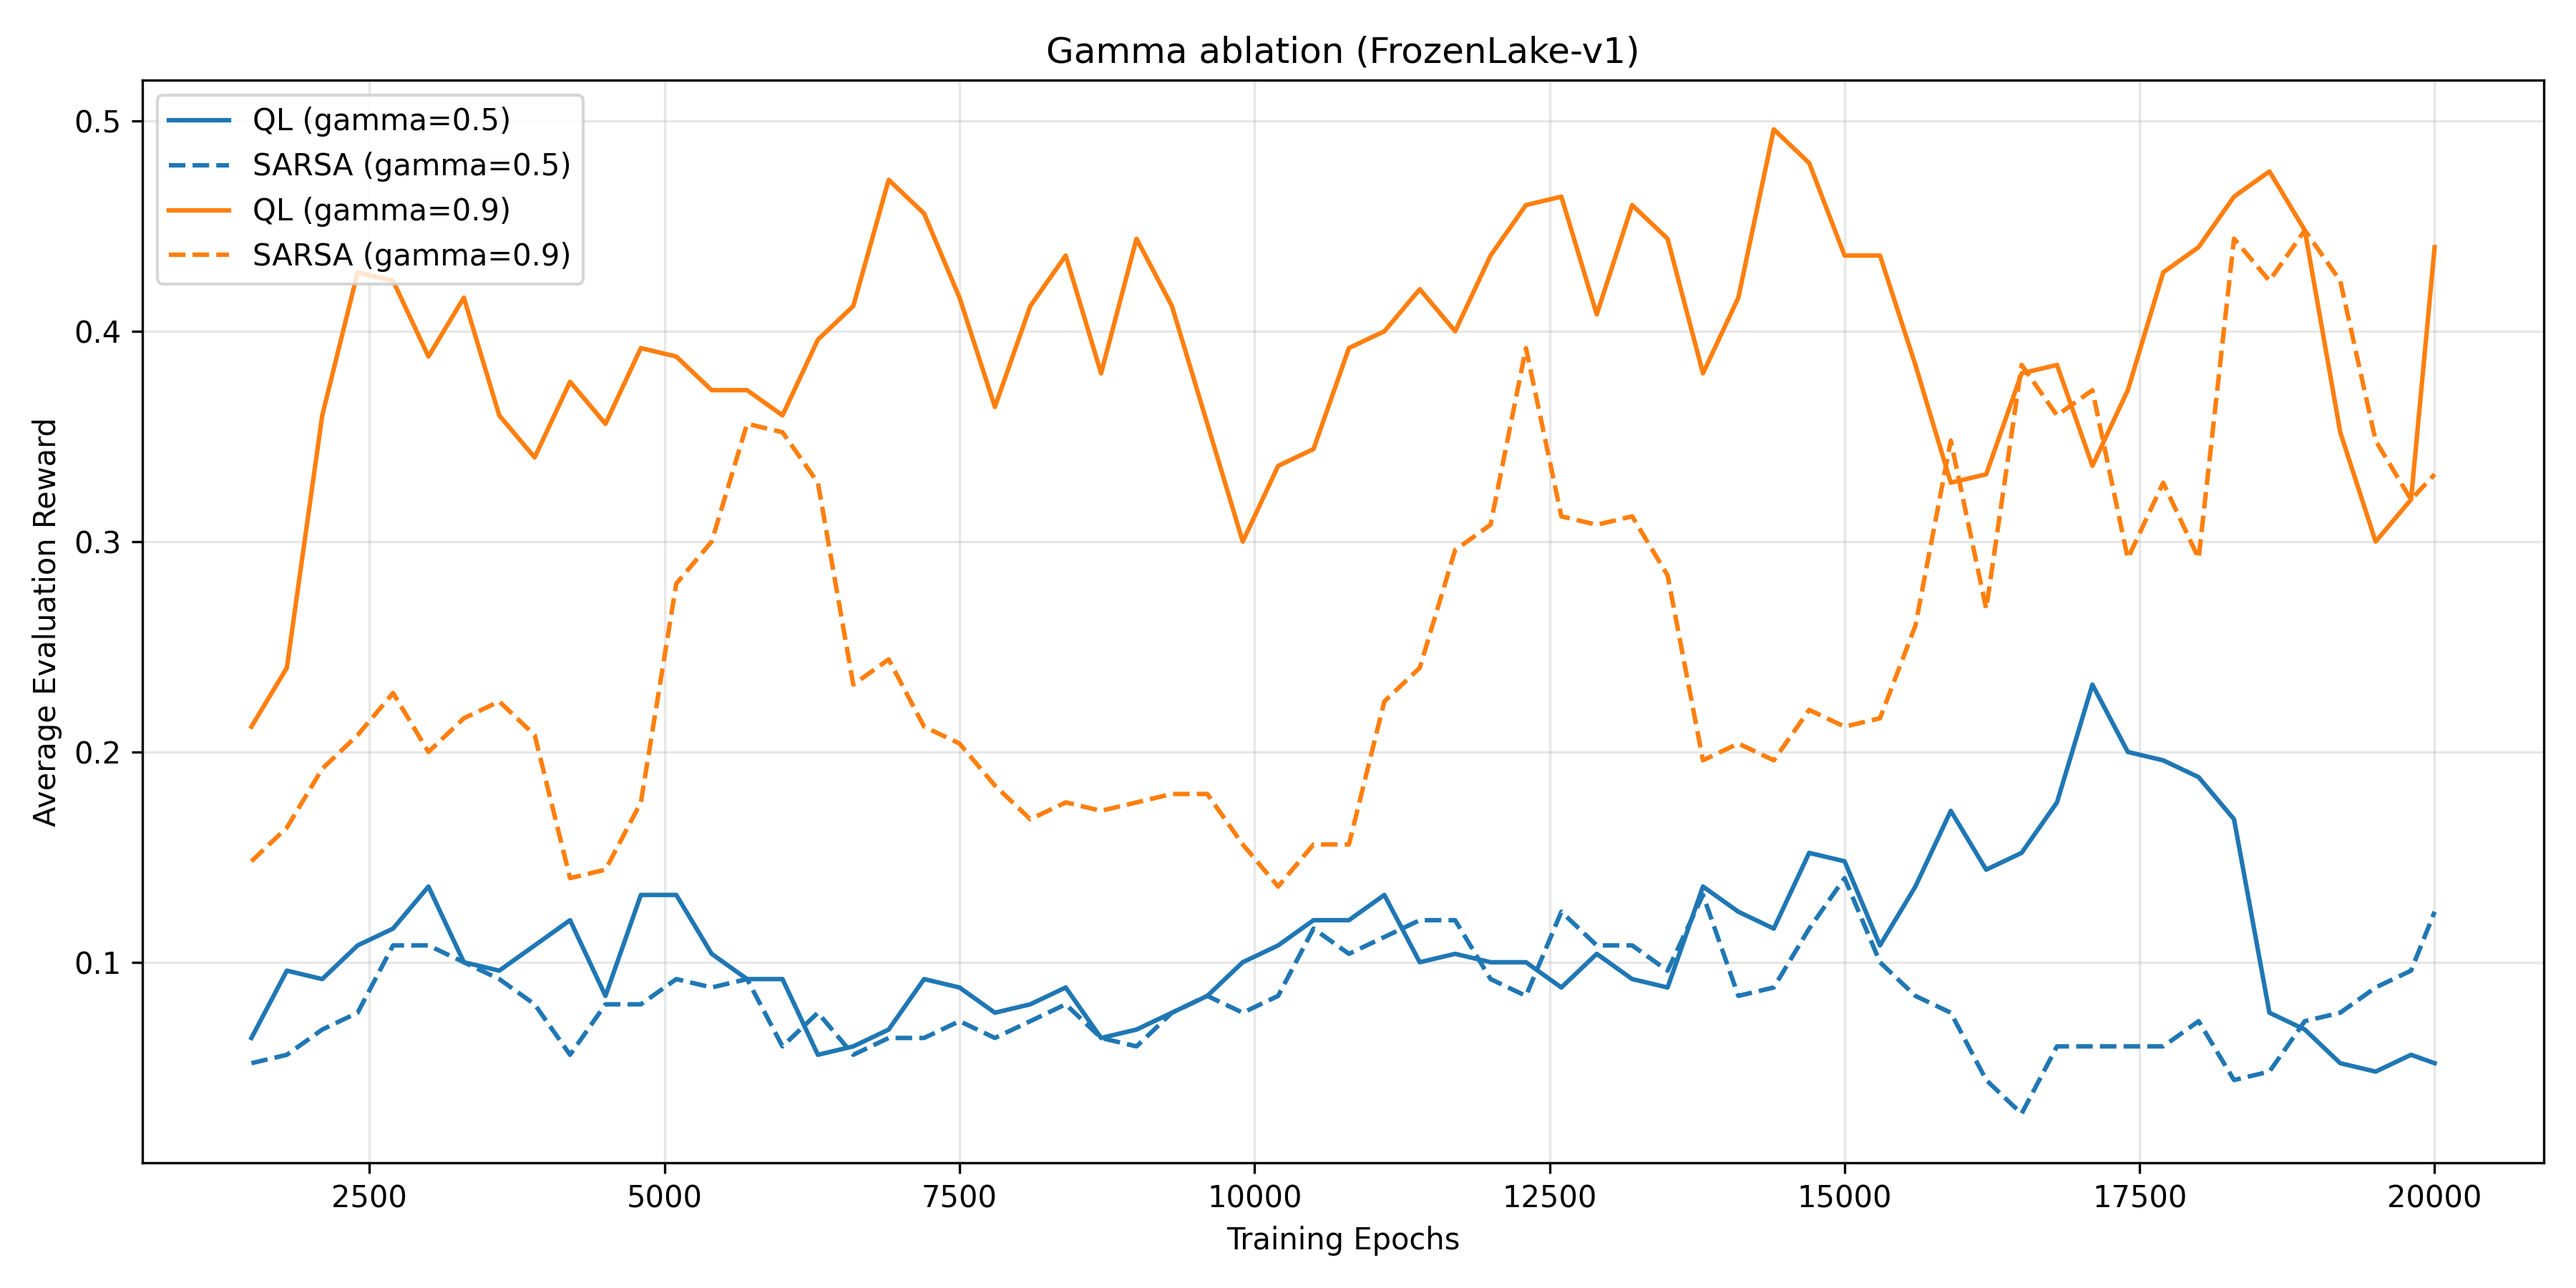
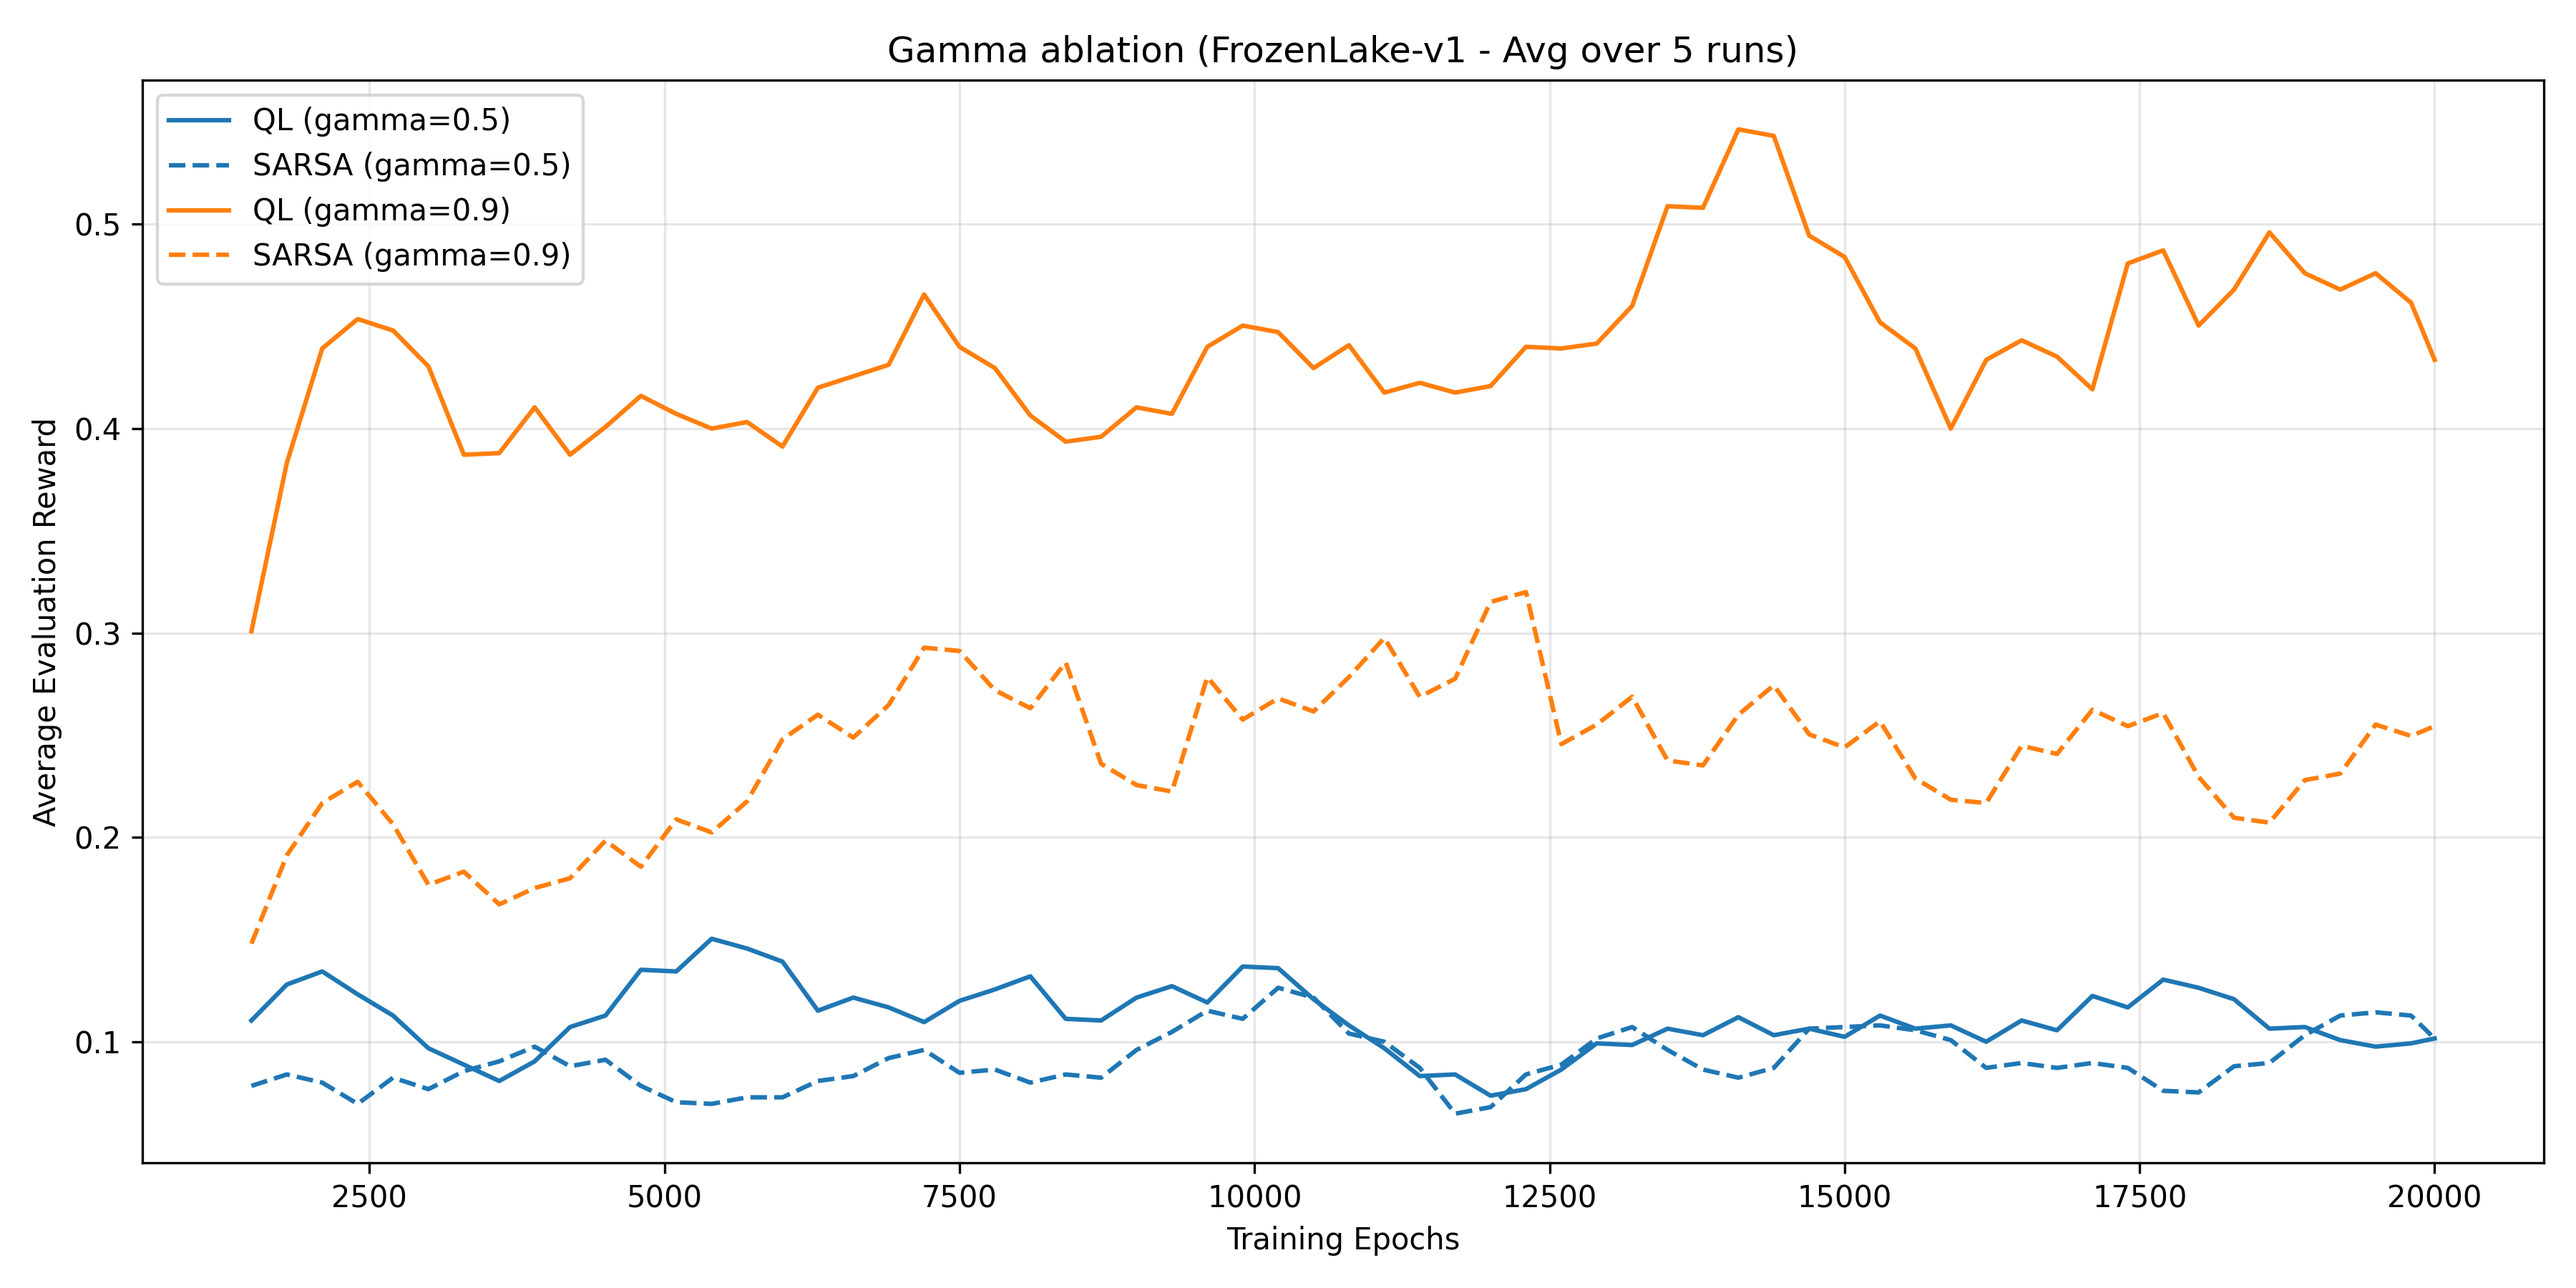
feat: added averaging

diff --git a/lab05-q-learning/main.py b/lab05-q-learning/main.py
@@ -7,10 +7,25 @@ from sarsa import train_sarsa
 def smooth_data(data, window_size=5):
     if len(data) < window_size:
         return data
-    
     return np.convolve(data, np.ones(window_size)/window_size, mode='valid')
 
-def plot_combined_parameter_variations(env_name, total_epochs=5000, eval_freq=100, eval_epochs=50, smoothing_window=5):
+def run_multiple_seeds(train_func, env_name, alpha, gamma, epsilon, epochs, eval_freq, eval_epochs, num_runs=5):
+    all_rewards = []
+    epochs_arr = None
+    
+    for run in range(num_runs):
+        _, _, eval_metrics = train_func(env_name, alpha, gamma, epsilon, epochs, eval_freq, eval_epochs)
+        all_rewards.append(eval_metrics['avg_rewards'])
+        
+        if epochs_arr is None:
+            epochs_arr = eval_metrics['epochs']
+            
+    all_rewards = np.array(all_rewards)
+    mean_rewards = np.mean(all_rewards, axis=0)
+    
+    return np.array(epochs_arr), mean_rewards
+
+def plot_combined_parameter_variations(env_name, total_epochs=5000, eval_freq=100, eval_epochs=50, smoothing_window=5, num_runs=5):
     base_alpha, base_gamma, base_epsilon = 0.1, 0.9, 0.5
     param_grid = {'gamma': [0.5, 0.9], 'epsilon': [0.1, 0.5, 0.8], 'alpha': [0.1, 0.5, 0.9]}
     colors = plt.rcParams['axes.prop_cycle'].by_key()['color']
@@ -24,22 +39,24 @@ def plot_combined_parameter_variations(env_name, total_epochs=5000, eval_freq=10
             elif param_name == 'epsilon': e = val
             elif param_name == 'alpha': a = val
             
-            _, _, ql_eval = train_q_learning(env_name, a, g, e, total_epochs, eval_freq, eval_epochs)
-            _, _, sarsa_eval = train_sarsa(env_name, a, g, e, total_epochs, eval_freq, eval_epochs)
+            ql_epochs, ql_mean = run_multiple_seeds(train_q_learning, env_name, a, g, e, total_epochs, eval_freq, eval_epochs, num_runs)
+            sarsa_epochs, sarsa_mean = run_multiple_seeds(train_sarsa, env_name, a, g, e, total_epochs, eval_freq, eval_epochs, num_runs)
             
             color = colors[i % len(colors)]
                         
-            if len(ql_eval['avg_rewards']) >= smoothing_window:
-                smoothed_ql = smooth_data(ql_eval['avg_rewards'], smoothing_window)
-                smooth_x = ql_eval['epochs'][(smoothing_window-1):]
+            # Q-Learning plot
+            if len(ql_mean) >= smoothing_window:
+                smoothed_ql = smooth_data(ql_mean, smoothing_window)
+                smooth_x = ql_epochs[(smoothing_window-1):]
                 plt.plot(smooth_x, smoothed_ql, label=f'QL ({param_name}={val})', color=color, linestyle='-')
 
-            if len(sarsa_eval['avg_rewards']) >= smoothing_window:
-                smoothed_sarsa = smooth_data(sarsa_eval['avg_rewards'], smoothing_window)
-                smooth_x = sarsa_eval['epochs'][(smoothing_window-1):]
+            # SARSA plot
+            if len(sarsa_mean) >= smoothing_window:
+                smoothed_sarsa = smooth_data(sarsa_mean, smoothing_window)
+                smooth_x = sarsa_epochs[(smoothing_window-1):]
                 plt.plot(smooth_x, smoothed_sarsa, label=f'SARSA ({param_name}={val})', color=color, linestyle='--')
 
-        plt.title(f"{param_name.capitalize()} ablation ({env_name})")
+        plt.title(f"{param_name.capitalize()} ablation ({env_name} - Avg over {num_runs} runs)")
         plt.xlabel("Training Epochs")
         plt.ylabel("Average Evaluation Reward")
         plt.legend()
@@ -49,32 +66,31 @@ def plot_combined_parameter_variations(env_name, total_epochs=5000, eval_freq=10
         filename = f"{env_name}_{param_name}_ablation.png"
         plt.savefig(filename, dpi=300)
         plt.close()
+        print(f"Saved {filename}")
 
-        print(f"Saved plot for {param_name} variations as '{filename}'")
-
-def plot_baseline_comparison(env_name, total_epochs=5000, eval_freq=50, eval_epochs=50, smoothing_window=5):
+def plot_baseline_comparison(env_name, total_epochs=5000, eval_freq=50, eval_epochs=50, smoothing_window=5, num_runs=5):
     alpha, gamma, epsilon = 0.1, 0.9, 0.5
     
-    _, _, ql_eval = train_q_learning(
-        env_name, alpha, gamma, epsilon, epochs=total_epochs, eval_freq=eval_freq, eval_epochs=eval_epochs
+    ql_epochs, ql_mean = run_multiple_seeds(
+        train_q_learning, env_name, alpha, gamma, epsilon, epochs=total_epochs, eval_freq=eval_freq, eval_epochs=eval_epochs, num_runs=num_runs
     )
-    _, _, sarsa_eval = train_sarsa(
-        env_name, alpha, gamma, epsilon, epochs=total_epochs, eval_freq=eval_freq, eval_epochs=eval_epochs
+    sarsa_epochs, sarsa_mean = run_multiple_seeds(
+        train_sarsa, env_name, alpha, gamma, epsilon, epochs=total_epochs, eval_freq=eval_freq, eval_epochs=eval_epochs, num_runs=num_runs
     )
     
     plt.figure(figsize=(10, 6))
     
-    if len(ql_eval['avg_rewards']) >= smoothing_window:
-        smoothed_ql = smooth_data(ql_eval['avg_rewards'], smoothing_window)
-        smooth_x = ql_eval['epochs'][(smoothing_window-1):]
-        plt.plot(smooth_x, smoothed_ql, label='Q-Learning', color='tab:blue', linestyle='-')
+    if len(ql_mean) >= smoothing_window:
+        smoothed_ql = smooth_data(ql_mean, smoothing_window)
+        smooth_x = ql_epochs[(smoothing_window-1):]
+        plt.plot(smooth_x, smoothed_ql, label='Q-Learning', color='tab:blue', linestyle='-', linewidth=2)
 
-    if len(sarsa_eval['avg_rewards']) >= smoothing_window:
-        smoothed_sarsa = smooth_data(sarsa_eval['avg_rewards'], smoothing_window)
-        smooth_x = sarsa_eval['epochs'][(smoothing_window-1):]
-        plt.plot(smooth_x, smoothed_sarsa, label='SARSA', color='tab:orange', linestyle='--')
+    if len(sarsa_mean) >= smoothing_window:
+        smoothed_sarsa = smooth_data(sarsa_mean, smoothing_window)
+        smooth_x = sarsa_epochs[(smoothing_window-1):]
+        plt.plot(smooth_x, smoothed_sarsa, label='SARSA', color='tab:orange', linestyle='--', linewidth=2)
 
-    plt.title(f"Comparison: Q-Learning vs SARSA ({env_name})")
+    plt.title(f"Comparison: Q-Learning vs SARSA ({env_name} - Avg over {num_runs} runs)")
     plt.xlabel("Training Epochs")
     plt.ylabel(f"Average Evaluation Reward")
     plt.legend()
@@ -84,14 +100,13 @@ def plot_baseline_comparison(env_name, total_epochs=5000, eval_freq=50, eval_epo
     filename = f"{env_name}_comparison.png"
     plt.savefig(filename, dpi=300)
     plt.close()
-    
-    print(f"Saved baseline comparison plot as '{filename}'")
+    print(f"Saved {filename}")
 
-if __name__ == "__main__":
+if __name__ == "__main__":   
     # task 1
-    plot_baseline_comparison("Taxi-v3", total_epochs=5000, eval_freq=100, eval_epochs=50, smoothing_window=5)
-    plot_baseline_comparison("FrozenLake-v1", total_epochs=20000, eval_freq=300, eval_epochs=50, smoothing_window=5)
+    plot_baseline_comparison("Taxi-v3", total_epochs=5000, eval_freq=100, eval_epochs=50, smoothing_window=5, num_runs=1)
+    plot_baseline_comparison("FrozenLake-v1", total_epochs=20000, eval_freq=300, eval_epochs=50, smoothing_window=5, num_runs=1)
 
     # task 2
-    plot_combined_parameter_variations("Taxi-v3", total_epochs=5000, eval_freq=100, eval_epochs=50, smoothing_window=5)
-    plot_combined_parameter_variations("FrozenLake-v1", total_epochs=20000, eval_freq=300, eval_epochs=50, smoothing_window=5)
+    plot_combined_parameter_variations("Taxi-v3", total_epochs=5000, eval_freq=100, eval_epochs=50, smoothing_window=5, num_runs=5)
+    plot_combined_parameter_variations("FrozenLake-v1", total_epochs=20000, eval_freq=300, eval_epochs=50, smoothing_window=5, num_runs=5)
